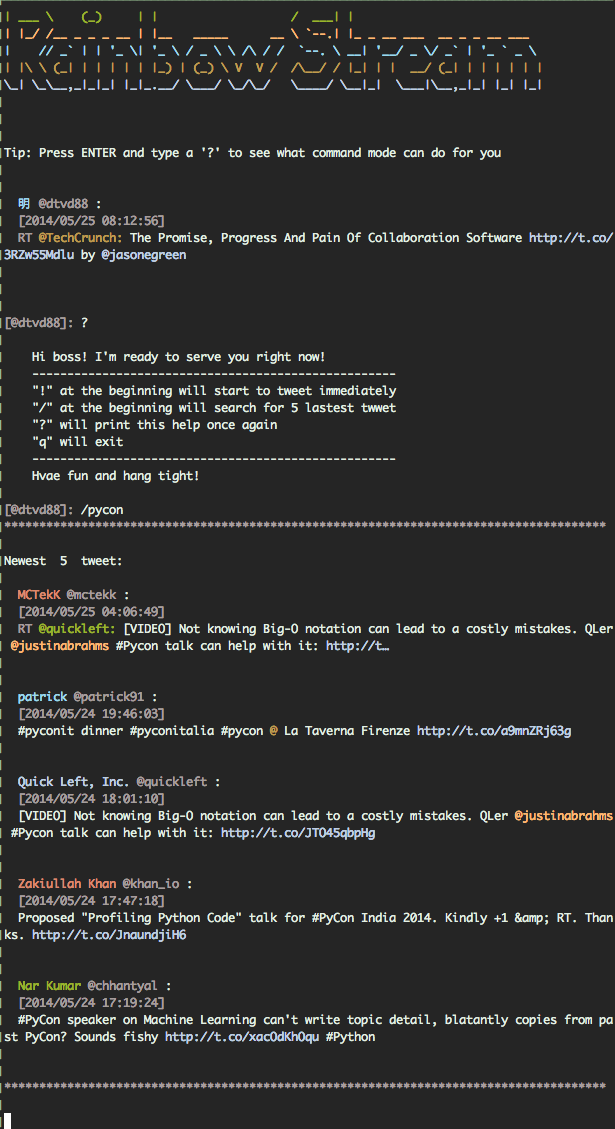
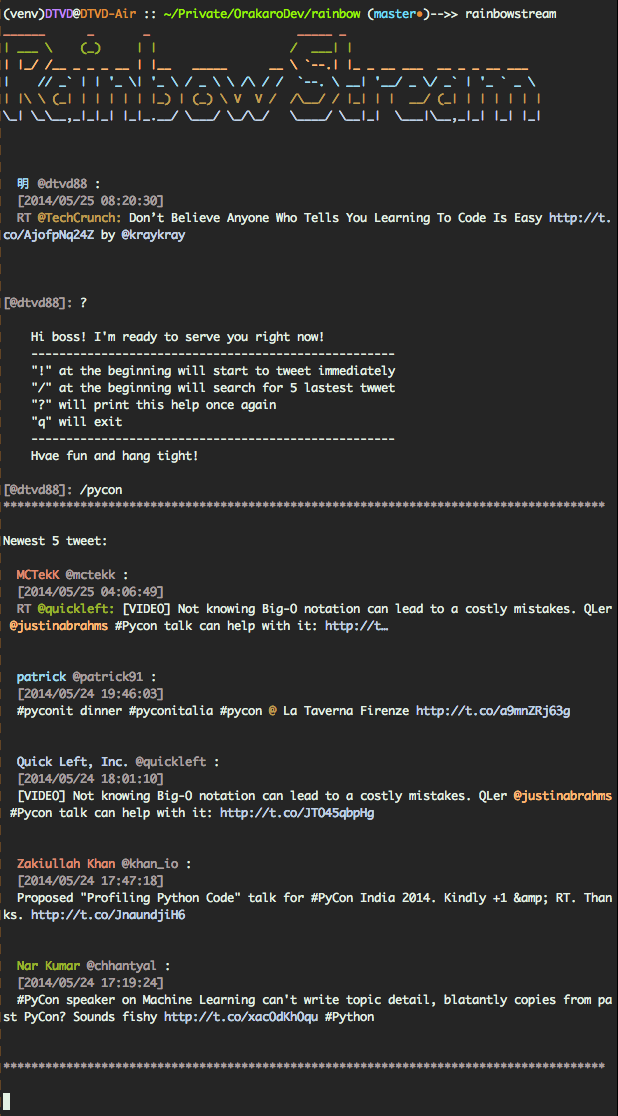
update screenshot

Changed region(s): [[0.0, 0.0, 1.0, 1.0]]

diff --git a/rainbowstream/rainbow.py b/rainbowstream/rainbow.py
@@ -133,7 +133,7 @@ def search():
     t = Twitter(auth=authen())
     rel = t.search.tweets(q='#' + g['stuff'])['statuses']
     printNicely(grey('**************************************************************************************\n'))
-    print('Newest ',SEARCH_MAX_RECORD, ' tweet: \n')
+    print('Newest',SEARCH_MAX_RECORD, 'tweet: \n')
     for i in xrange(5):
         draw(t=rel[i])
     printNicely(grey('**************************************************************************************\n'))
@@ -196,8 +196,6 @@ def stream():
 
     # The Logo
     ascii_art()
-    print("Tip: Press ENTER and type a '?' to see what command mode can do for you")
-    print('\n')
     # These arguments are optional:
     stream_args = dict(
         timeout=args.timeout,
